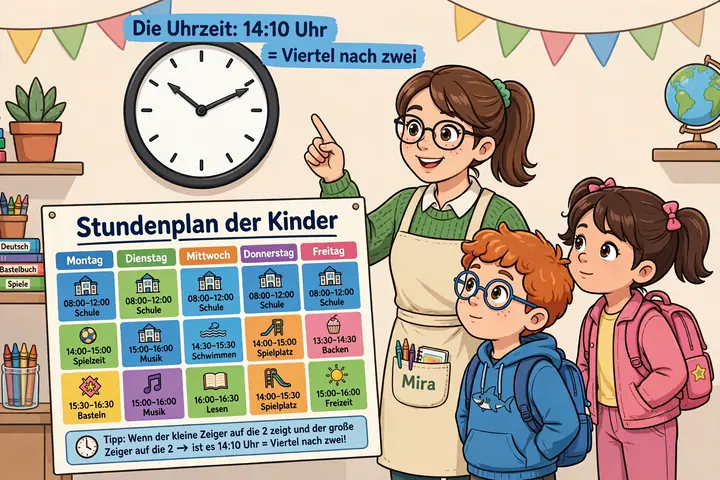
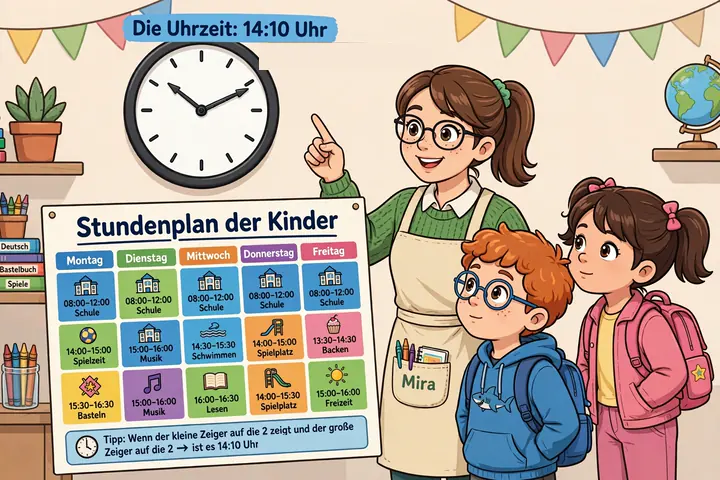
fix: falsche Uhrzeitangabe aus dem Bild zu Lektion 5 entfernen
Das Bild behauptete zweimal, 14:10 Uhr sei Viertel nach zwei. Beide
Stellen sind ueberdeckt, der richtige Rest steht vollstaendig da.
Kanten am verkleinerten Bild abgemessen, Ergebnis geprueft.

Changed region(s): [[0.3361, 0.0625, 0.6111, 0.1562], [0.3667, 0.9062, 0.4889, 0.9375]]

diff --git a/scripts/bilder-aufbereiten.js b/scripts/bilder-aufbereiten.js
@@ -55,6 +55,34 @@ const ZUORDNUNG = {
  * Kartenkoordinaten, also nach dem Verkleinern auf 720x480.
  */
 const RETUSCHEN = {
+  // Das Bild behauptete zweimal, 14:10 Uhr sei "Viertel nach zwei". Viertel
+  // nach zwei ist 14:15. Die Lektion erklärt es richtig, das Bild widersprach
+  // ihr – oben im Kopfbanner und unten im Tippkasten. Beide Male wird nur der
+  // falsche Teil überdeckt. Übrig bleiben "Die Uhrzeit: 14:10 Uhr" und
+  // "... ist es 14:10 Uhr", beides richtig und für sich verständlich.
+  // Die Kanten sind am verkleinerten Bild abgemessen, nicht geschätzt.
+  5: [
+    {
+      links: 259,
+      rechts: 429,
+      obenLinks: 43,
+      obenRechts: 43,
+      untenLinks: 70,
+      untenRechts: 70,
+      farbe: '0xF7E7D6', // Wand rechts neben dem Banner ausgelesen
+      grund: 'falsche Uhrzeitangabe im Kopfbanner',
+    },
+    {
+      links: 258,
+      rechts: 352,
+      obenLinks: 435,
+      obenRechts: 435,
+      untenLinks: 448,
+      untenRechts: 448,
+      farbe: '0xA8D0E3', // Tippkasten rechts neben dem Text ausgelesen
+      grund: 'falsche Uhrzeitangabe im Tippkasten',
+    },
+  ],
   7: [
     {
       links: 511,
